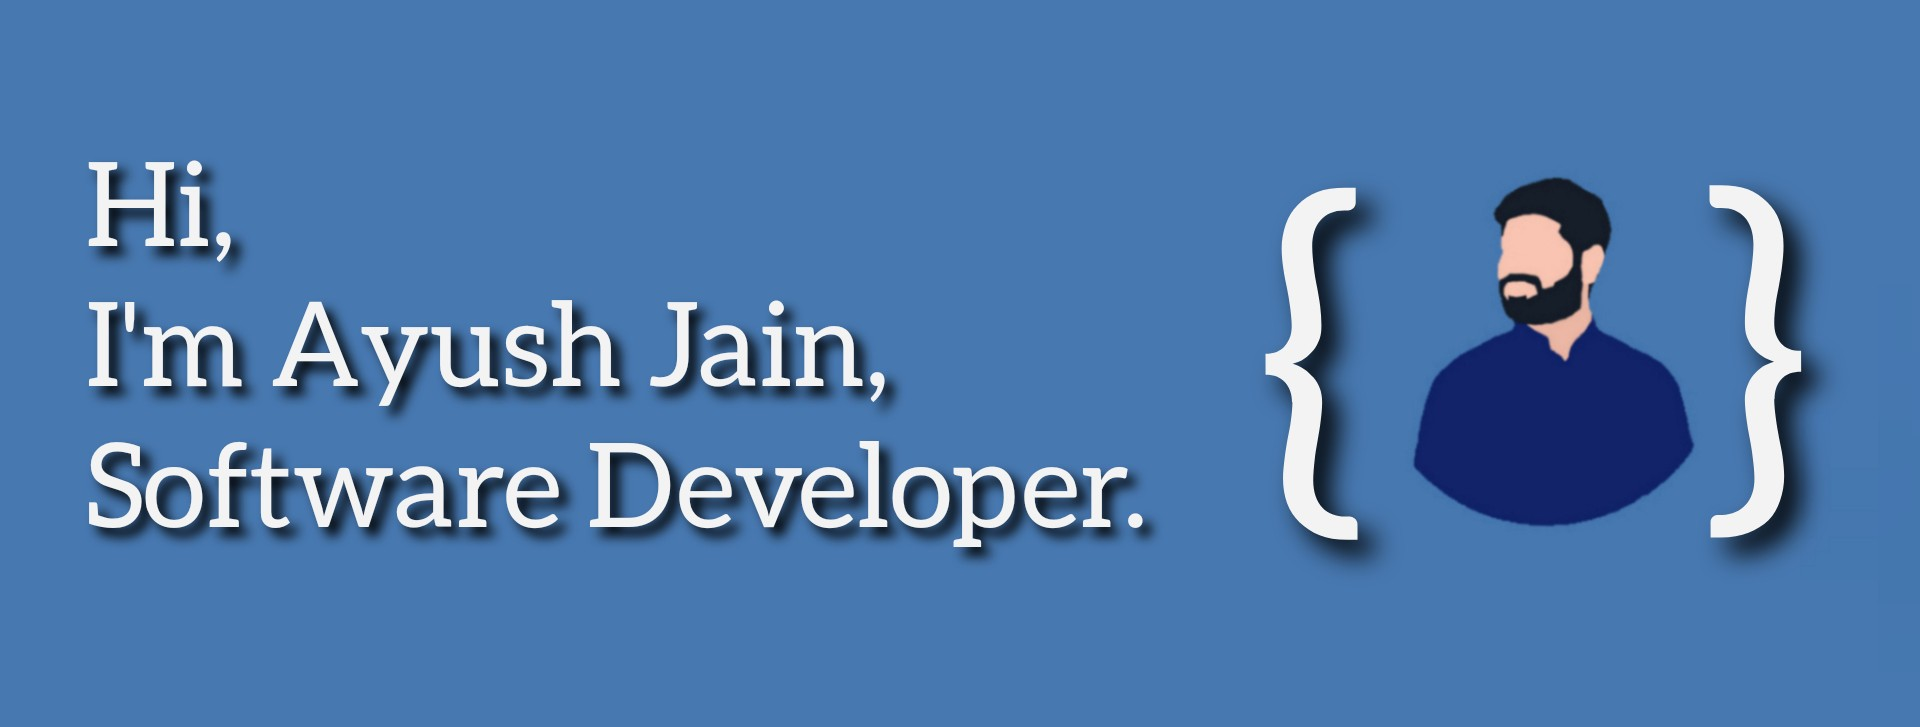
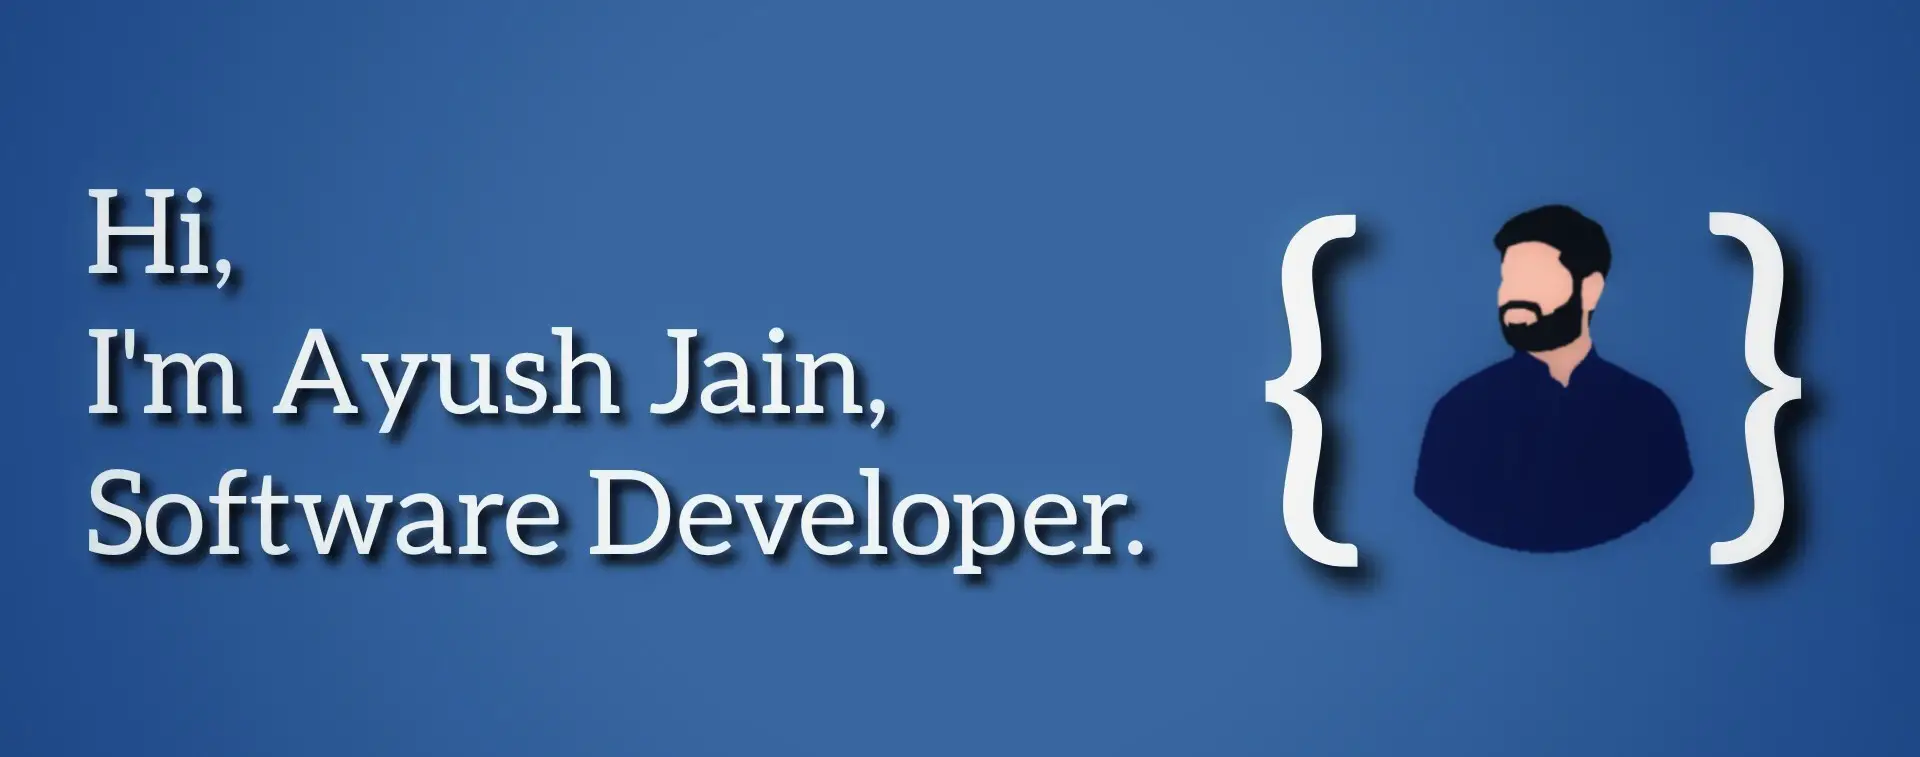
intro image change

diff --git a/README.md b/README.md
@@ -1,6 +1,6 @@
 <!-- ### Hi there 👋-->
 
-![intro-image](./images/intro.PNG)
+![intro-image](./images/intro.JPG)
 
 ### I've worked on:
 
